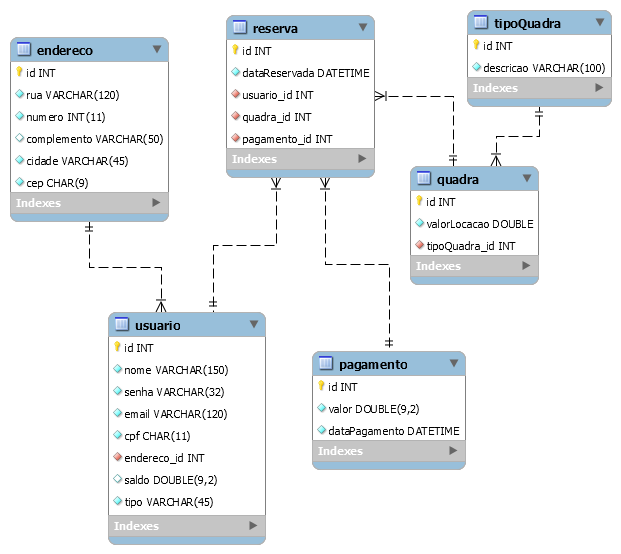
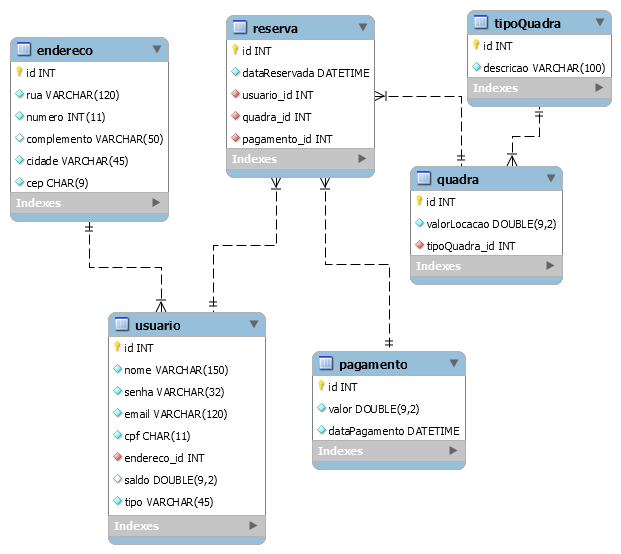
Nova atualização de ER, Criacao da model e migration de quadras

diff --git a/database/migrations/2017_10_10_003357_create_quadras_table.php b/database/migrations/2017_10_10_003357_create_quadras_table.php
@@ -1,0 +1,32 @@
+<?php
+
+use Illuminate\Support\Facades\Schema;
+use Illuminate\Database\Schema\Blueprint;
+use Illuminate\Database\Migrations\Migration;
+
+class CreateQuadrasTable extends Migration
+{
+    /**
+     * Run the migrations.
+     *
+     * @return void
+     */
+    public function up()
+    {
+        Schema::create('quadras', function (Blueprint $table) {
+            $table->increments('id');
+            $table->double('valorLocacao', 9, 2);
+            $table->timestamps();
+        });
+    }
+
+    /**
+     * Reverse the migrations.
+     *
+     * @return void
+     */
+    public function down()
+    {
+        Schema::dropIfExists('quadras');
+    }
+}

diff --git a/app/Quadra.php b/app/Quadra.php
@@ -1,0 +1,10 @@
+<?php
+
+namespace App;
+
+use Illuminate\Database\Eloquent\Model;
+
+class Quadra extends Model
+{
+    //
+}
